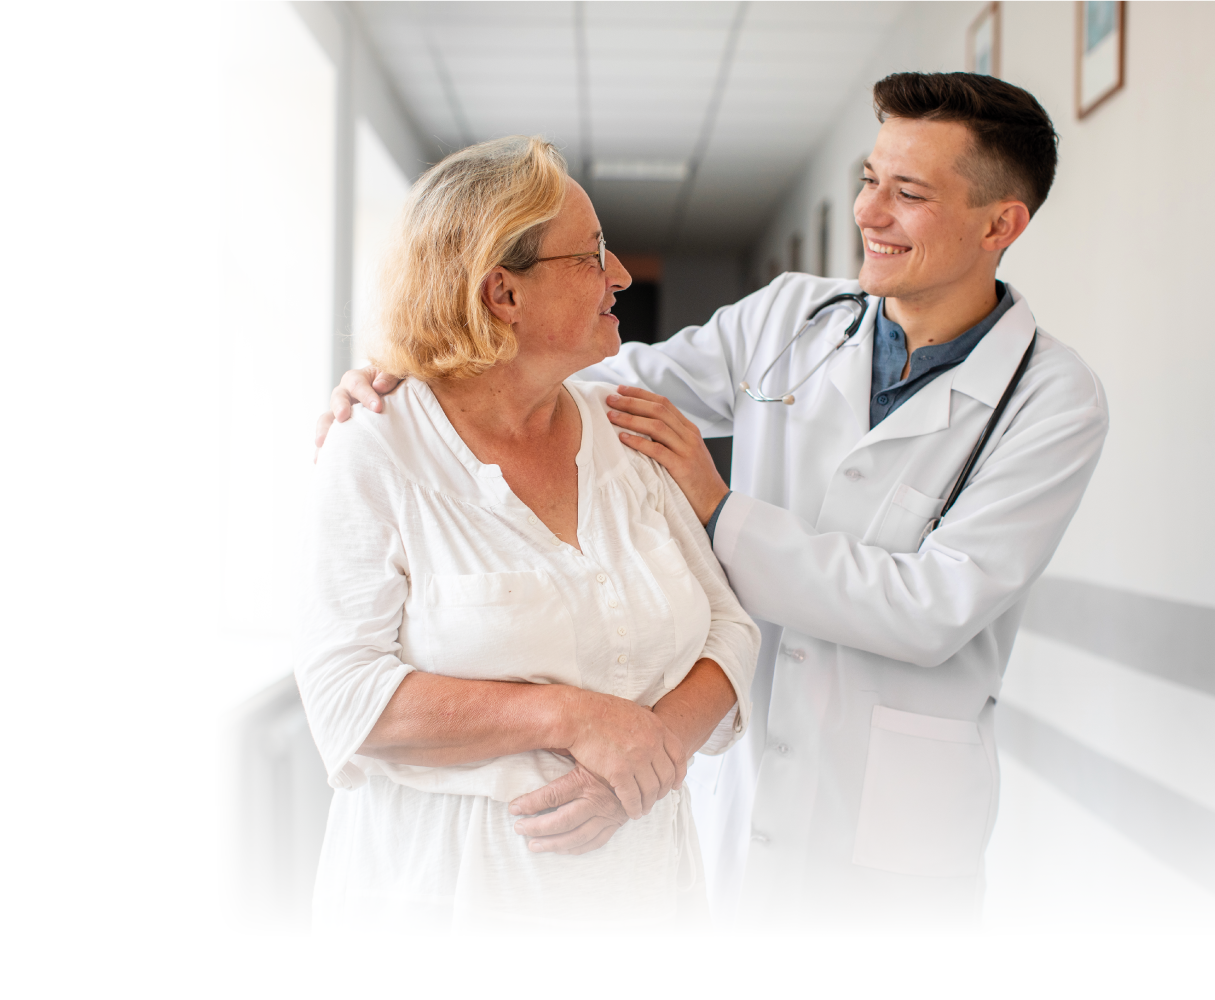
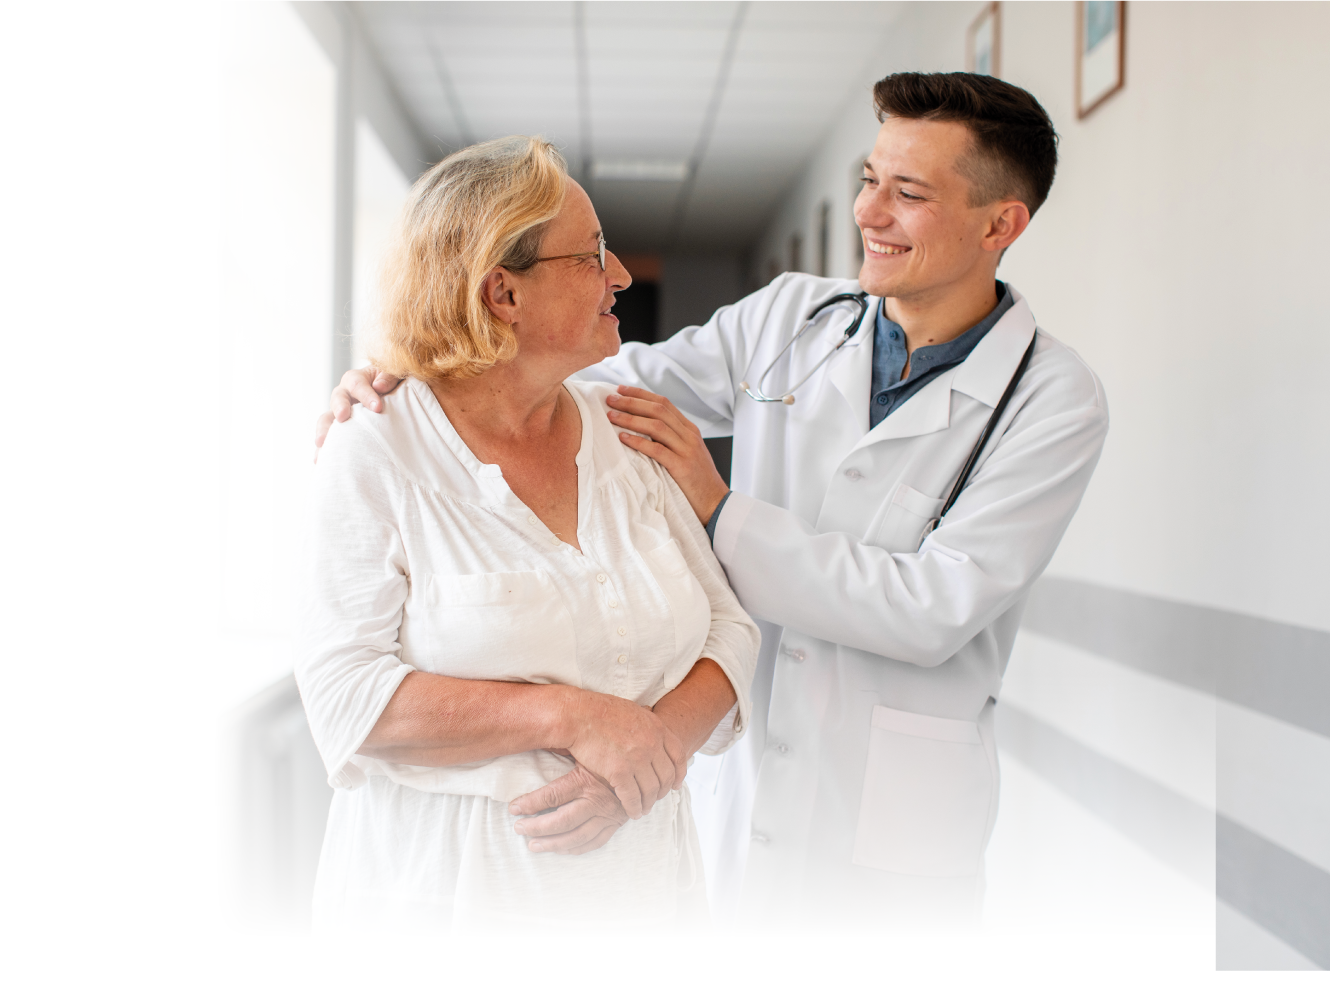
Milestone: MVP 1

diff --git a/src/components/content/index/Hero.tsx b/src/components/content/index/Hero.tsx
@@ -9,7 +9,8 @@ export const Hero = (props : {
     const [animateHero, setAnimateHero] = useState("lg:opacity-0 translate-y-[100px]");
     const [animateHeroVideo, setAnimateHeroVideo] = useState("lg:w-[80%]");
     const [animateHeroHeadline, setAnimateHeroHeadline] = useState("lg:w-0 opacity-0 pointer-events-none");
-    const serviceImageStyle = "absolute brightness-75 inset-0 bg-cover bg-center bg-no-repeat h-full w-full transition duration-1000 ease-in-out lg:hover:scale-125 lg:hover:brightness-50";
+    const serviceImageStyle = "absolute inset-0 bg-cover bg-center bg-no-repeat h-full w-full transition duration-300 ease-in-out lg:hover:brightness-[25%]";
+    const linkStyle = "z-10 transition duration-300 ease-in-out lg:hover:text-white focus:text-white";
     const handleOnEnded = (e: React.SyntheticEvent<HTMLVideoElement>) => {
         e.preventDefault();
         setAnimateHero("lg:opacity-0 lg:translate-y-[100px] lg:animate-fade-in-bottom lg:animation-delay-600");
@@ -45,30 +46,30 @@ export const Hero = (props : {
                         </video>}
                 </section>
             </header>
-            <ul className={"h-72 flex justify-center gap-10 w-full hero-clip bg-white overflow-clip text-white"}>
-                <li className={"relative w-full h-full overflow-clip flex items-center justify-center"}>
-                    <Link className={"z-10"} href={"/services"}>Cannabis Medicinal</Link>
+            <ul className={"z-10 h-72 flex justify-center gap-10 w-full hero-clip bg-white overflow-clip text-transparent"}>
+                <li className={"relative w-full h-full overflow-clip flex items-center justify-center transition duration-75 ease-in-out lg:hover:text-white"}>
+                    <Link className={linkStyle} href={"/services"}>Cannabis Medicinal</Link>
                     <section className={`bg-[url('/images/hero/1.png')] ${serviceImageStyle}`}>
                     </section>
                 </li>
-                <li className={"relative w-full h-full overflow-clip flex items-center justify-center"}>
-                    <Link className={"z-10"} href={"/services"}>Medicina Funcional</Link>
+                <li className={"relative w-full h-full overflow-clip flex items-center justify-center transition duration-75 ease-in-out lg:hover:text-white"}>
+                    <Link className={linkStyle} href={"/services"}>Medicina Funcional</Link>
                     <section className={`bg-[url('/images/hero/2.png')] ${serviceImageStyle}`}>
                     </section>
                 </li>
-                <li className={"relative w-full h-full overflow-clip flex items-center justify-center"}>
-                    <Link className={"z-10"} href={"/services"}>Sueros Terapéuticos</Link>
+                <li className={"relative w-full h-full overflow-clip flex items-center justify-center transition duration-75 ease-in-out lg:hover:text-white"}>
+                    <Link className={linkStyle} href={"/services"}>Sueros Terapéuticos</Link>
                     <section className={`bg-[url('/images/hero/3.png')] ${serviceImageStyle}`}>
                     </section>
                 </li>
-                <li className={"relative w-full h-full overflow-clip flex items-center justify-center"}>
-                    <Link className={"z-10"} href={"/experience"}>Centro de Experiencia</Link>
-                    <section className={`bg-[url('/images/hero/5.png')] ${serviceImageStyle}`}>
+                <li className={"relative w-full h-full overflow-clip flex items-center justify-center transition duration-75 ease-in-out lg:hover:text-white"}>
+                    <Link className={linkStyle} href={"/services"}>Sistema Súper Inductivo</Link>
+                    <section className={`bg-[url('/images/hero/4.png')] ${serviceImageStyle}`}>
                     </section>
                 </li>
-                <li className={"relative w-full h-full overflow-clip flex items-center justify-center"}>
-                    <Link className={"z-10"} href={"/services"}>Sistema Súper Inductivo</Link>
-                    <section className={`bg-[url('/images/hero/4.png')] ${serviceImageStyle}`}>
+                <li className={"relative w-full h-full overflow-clip flex items-center justify-center transition duration-75 ease-in-out lg:hover:text-white"}>
+                    <Link className={linkStyle} href={"/experience"}>Centro de Experiencia</Link>
+                    <section className={`bg-[url('/images/hero/5.png')] ${serviceImageStyle}`}>
                     </section>
                 </li>
             </ul>

diff --git a/src/components/content/index/OurHistory.tsx b/src/components/content/index/OurHistory.tsx
@@ -11,8 +11,8 @@ export const OurHistory = () => {
     return (
         <article className={"relative px-44 pt-32 min-h-[56rem] w-full flex items-start justify-center"}>
             <Image src={"/images/landing/whatsForYouHero.png"}
-                   className={"absolute pointer-events-none top-16 right-0 selection:bg-transparent"} alt={""}
-                   height={1000 * .85} width={1215 *.85}/>
+                   className={"absolute pointer-events-none top-20 right-0 selection:bg-transparent"} alt={""}
+                   height={1000 * .9} width={1215 *.9}/>
             <Image src={"/images/svg/leafHumanizing.svg"}
                    className={"z-0 pointer-events-none absolute selection:bg-transparent left-0 top-10 opacity-70"} alt={""}
                    height={1000} width={1000}/>
@@ -20,13 +20,13 @@ export const OurHistory = () => {
                    className={"z-0 pointer-events-none absolute selection:bg-transparent -top-0 opacity-0"} alt={""}
                    height={584} width={1920}/>
             <Image src={"/images/backgrounds/ourHistory.svg"}
-                   className={"z-0 pointer-events-none absolute selection:bg-transparent -top-8 overflow-y-clip"} alt={""}
+                   className={"z-0 pointer-events-none absolute selection:bg-transparent -top-0 overflow-y-clip"} alt={""}
                    height={584} width={1920}/>
             <section className={"z-10 w-full flex items-center justify-between mb-16"}>
-                <article className={"w-[44.25rem] flex flex-col items-start justify-start"}>
+                <article className={"w-[38em] flex flex-col items-start justify-start"}>
                     <h2 className={"tracking-tight text-viridian-green text-9xl leading-[0.9] font-black mb-10"}>Lo que tenemos <strong className={"text-caribbean-green"}>para ti</strong></h2>
-                    <h3 className={"w-full text-caribbean-green text-5xl font-black"}>Medicina Cannábica</h3>
-                    <p className={"w-full text-neutral-400 text-3xl font-normal"}>{lorem}</p>
+                    <h3 className={"mt-3 w-full text-caribbean-green text-3xl font-black"}>Medicina Cannábica</h3>
+                    <p className={"w-full text-neutral-400 text-2xl font-normal"}>{lorem}</p>
                     <button
                         className={"ml-32 mt-12 font-normal rounded-full bg-white text-2xl text-viridian-green px-16 py-2 shadow-lg shadow-viridian-green/20 transition duration-500 ease-in-out scale-110 lg:hover:bg-viridian-green lg:hover:text-white focus:scale-110 focus:bg-white focus:text-viridian-green border-viridian-green border-2 border-solid lg:hover:shadow-viridian-green/15"}
                         onClick={() => navigate.push("/contact")}>Ver más</button>

diff --git a/src/components/content/index/Humanizing.tsx b/src/components/content/index/Humanizing.tsx
@@ -24,14 +24,14 @@ export const Humanizing = () => {
             }
         }
 
-        observe(imgTrigger, [imageAnimation, setImageAnimation], "animate-fade-in-bottom");
-        observe(textTrigger, [textAnimation, setTextAnimation], "animate-fade-in-bottom animation-duration-1600");
+        observe(imgTrigger, [imageAnimation, setImageAnimation], "animate-fade-in-bottom animation-duration-500");
+        observe(textTrigger, [textAnimation, setTextAnimation], "animate-fade-in-bottom animation-duration-800");
 
     }, []);
 
     return (
         <>
-            <article className={"relative px-40 pt-16 min-h-[56rem] w-full flex items-start justify-center"}>
+            <article className={"relative px-40 pt-16 min-h-[72rem] w-full flex items-start justify-center"}>
                 <Image src={"/images/backgrounds/humanizing.png"}
                        className={"z-0 pointer-events-none absolute selection:bg-transparent -top-0"} alt={""}
                        height={584} width={1920} priority/>
@@ -45,15 +45,15 @@ export const Humanizing = () => {
                         <h2 className={"text-white font-black text-8xl"}><strong
                             className={"text-caribbean-green"}>Humanización</strong><br/>en atención<br/>al paciente
                         </h2>
-                        <p className={"text-white text-3xl font-normal"}>Clinicannabis cuenta con personal calificado,
+                        <p className={"text-white text-2xl font-normal w-144"}>Clinicannabis cuenta con personal calificado,
                             sus profesionales tienen experiencia en humanización en la atención e implementación de las
                             políticas de Seguridad del Paciente y Gestión del Riesgo</p>
                     </article>
                 </section>
                 <span ref={imageTriggerRef}
-                      className={"absolute bottom-56 w-full h-1 bg-transparent pointer-events-none selection:bg-transparent"}/>
-                <span ref={textTriggerRef}
                       className={"absolute top-96 w-full h-1 bg-transparent pointer-events-none selection:bg-transparent"}/>
+                <span ref={textTriggerRef}
+                      className={"absolute bottom-56 w-full h-1 bg-transparent pointer-events-none selection:bg-transparent"}/>
             </article>
         </>
     );

diff --git a/src/components/content/index/Numbers.tsx b/src/components/content/index/Numbers.tsx
@@ -1,0 +1,25 @@
+import Image from "next/image";
+
+export const Numbers = () => {
+    return (
+        <article className={"relative px-40 pt-16 min-h-[22rem] w-full flex items-center justify-center"}>
+            <Image src={"/images/backgrounds/numbers.png"}
+                   className={"z-0 pointer-events-none absolute selection:bg-transparent"} alt={""}
+                   height={584} width={1920} priority/>
+            <section className={"text-white z-10 grid grid-cols-3 w-full"}>
+                <section className={"text-center w-full flex flex-col items-center justify-center gap-2"}>
+                    <h2 className={"font-black text-6xl"}>147.000+</h2>
+                    <h3 className={"font-light text-4xl"}>Procedimientos</h3>
+                </section>
+                <section className={"text-center w-full flex flex-col items-center justify-center gap-2"}>
+                    <h2 className={"font-black text-6xl"}>40+</h2>
+                    <h3 className={"font-light text-4xl"}>Productos</h3>
+                </section>
+                <section className={"text-center w-full flex flex-col items-center justify-center gap-2"}>
+                    <h2 className={"font-black text-6xl"}>430</h2>
+                    <h3 className={"font-light text-4xl"}>Personal</h3>
+                </section>
+            </section>
+        </article>
+    );
+}

diff --git a/src/pages/index.tsx b/src/pages/index.tsx
@@ -10,6 +10,7 @@ import {useRouter} from "next/router";
 import {Hero} from "../components/content/index/Hero";
 import {OurHistory} from "../components/content/index/OurHistory";
 import {Humanizing} from "../components/content/index/Humanizing";
+import {Numbers} from "../components/content/index/Numbers";
 
 const Home: NextPage = () => {
 
@@ -35,6 +36,7 @@ const Home: NextPage = () => {
             <Hero hasWindow={hasWindow}/>
             <OurHistory />
             <Humanizing />
+            <Numbers />
             <Footer/>
         </main>
     )

diff --git a/src/components/Footer.tsx b/src/components/Footer.tsx
@@ -10,7 +10,7 @@ const Footer = () => {
 
     return (
     <>
-        <footer className={"flex w-full h-384 relative flex-col justify-end items-center"}>
+        <footer className={"flex w-full h-256 relative flex-col justify-end items-center"}>
             <section className={"z-10 w-full flex flex-col justify-end items-center"}>
                 <section className={"w-[70%] h-[38rem] grid grid-cols-3 py-20"}>
                     <section className={"w-[120%] h-full pt-4 flex flex-col items-start justify-start gap-10"}>
